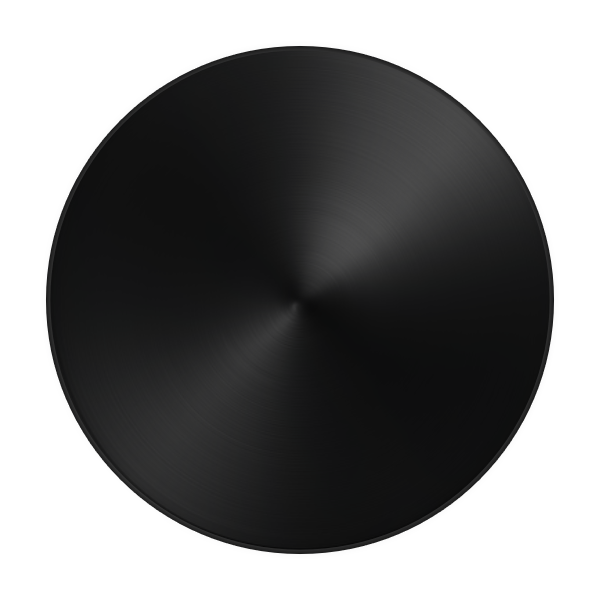
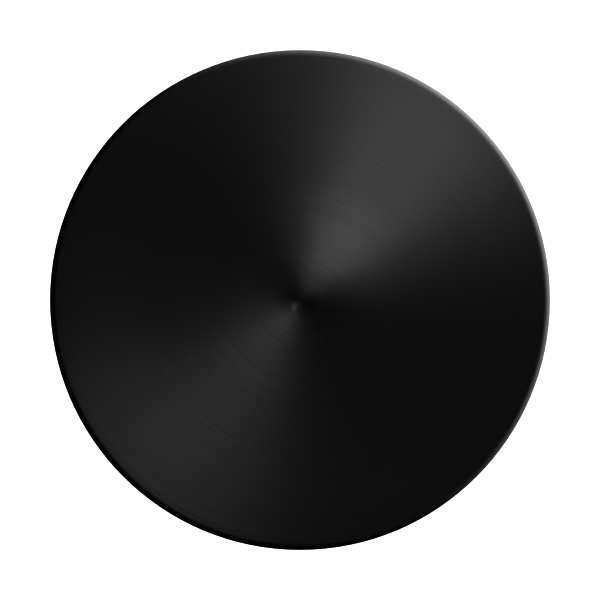
Knobs angepasst

diff --git a/src/ui/PluginLookAndFeel.h b/src/ui/PluginLookAndFeel.h
@@ -76,7 +76,7 @@ public:
     g.drawImageTransformed(innerKnob, innerTransform, false);
 
     auto overAngle = rotaryStartAngle +
-                     sliderPosProportional * 5.f * (rotaryEndAngle - rotaryStartAngle);
+                     sliderPosProportional * std::tanh(sliderPosProportional) * 2.f * (rotaryEndAngle - rotaryStartAngle);
     auto overTransform = juce::AffineTransform::translation(-sw * 0.5f, -sh * 0.5f)
                              .scaled(scale, scale)
                              .rotated(overAngle)
@@ -84,7 +84,7 @@ public:
     g.drawImageTransformed(overKnob, overTransform, false);
 
     juce::Path pointer;
-    pointer.addRoundedRectangle(1.f, -radius+5, 2.0f, radius/3, 0.5f);
+    pointer.addRoundedRectangle(1.f, -radius+5, 2.0f, radius/4, 0.5f);
     g.setColour(findColour(juce::Slider::thumbColourId));
     g.fillPath(pointer,
                juce::AffineTransform::rotation(angle).translated(centre.x, centre.y));

diff --git a/src/ui/PluginEditor.cpp b/src/ui/PluginEditor.cpp
@@ -51,8 +51,7 @@ NeuroCoreAudioProcessorEditor::NeuroCoreAudioProcessorEditor (NeuroCoreAudioProc
     languageBox->setSelectedId(audioProcessor.getCurrentLanguage().startsWithIgnoreCase("de") ? 2 : 1, juce::dontSendNotification);
     addAndMakeVisible(*languageBox);
    
-    knobGroup = std::make_unique<juce::GroupComponent>("", TRANS("KnobGroupLabel"));
-    addAndMakeVisible(*knobGroup);
+
 
     const float startAngle = juce::MathConstants<float>::pi * 4.0f / 3.0f;
     const float endAngle   = juce::MathConstants<float>::pi * 8.0f / 3.0f;
